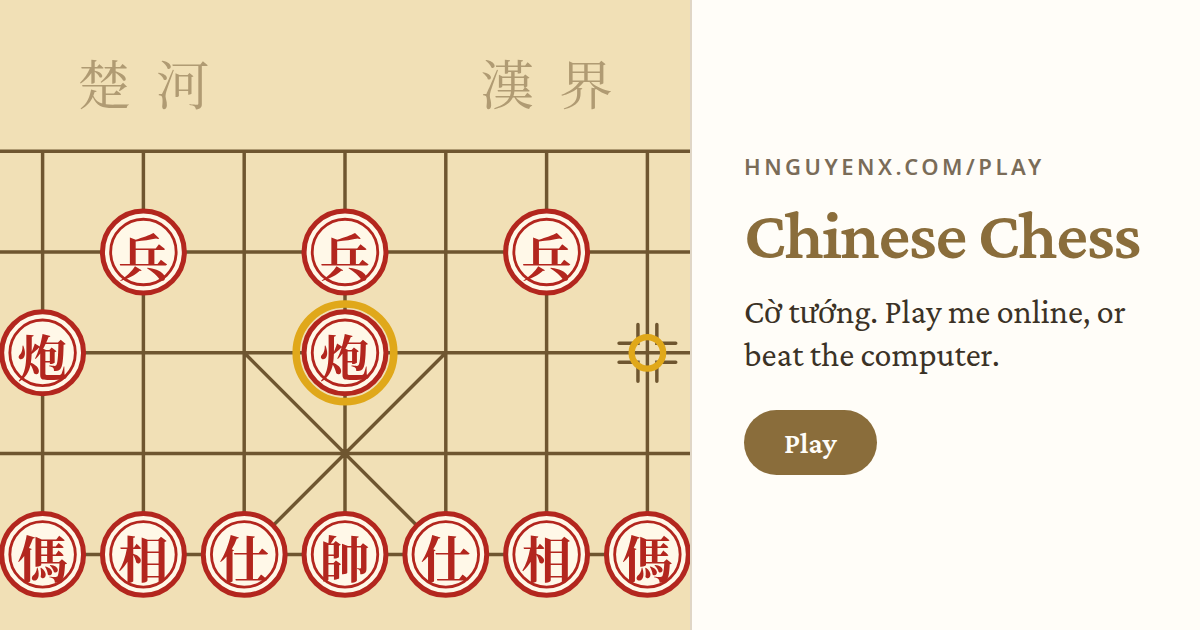
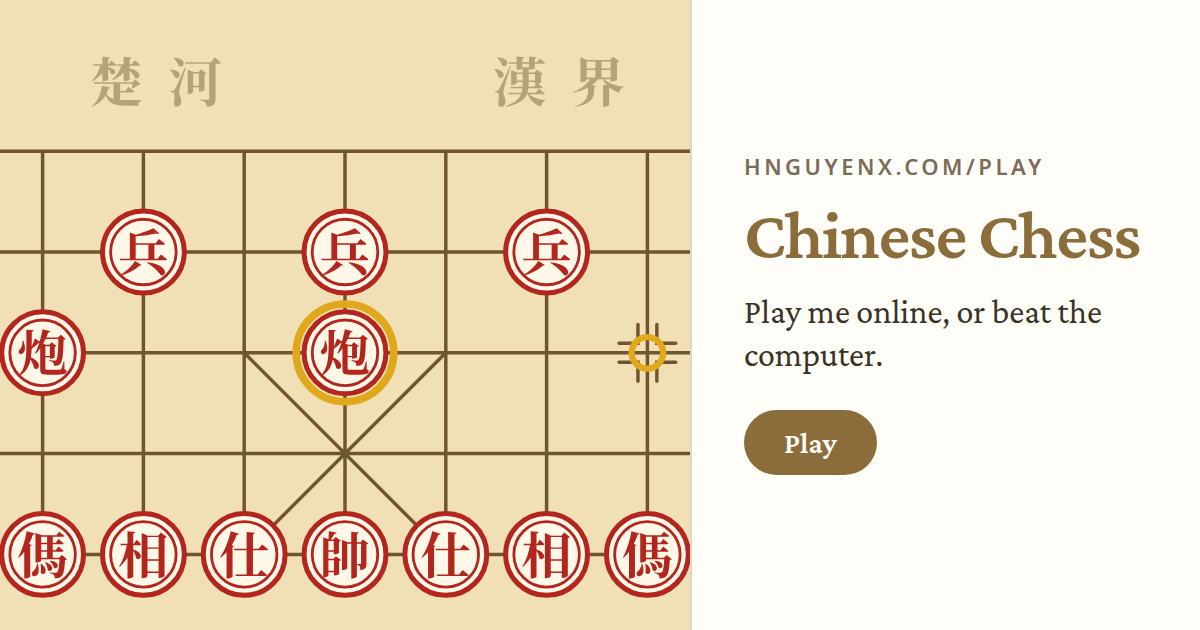
Chinese Chess: piece characters centred in their discs; English text says Chinese Chess
The characters were centred by the font's line height, which sits lower
than the middle of a Chinese character. They are now SVG text with the
baseline placed from the centre of the disc, on the games page card, the
board, the captured pieces, the letters style and the preview picture.

A small font with only the 18 characters the board uses (cut from Noto
Serif CJK SC Bold, SIL Open Font License) makes the pieces look the same
on every device.

English text no longer carries the Vietnamese name: the card, the link
preview title and picture, and the page description.

Claude-Session: https://claude.ai/code/session_01QVQ6hYPhpjejb6X99Nmzb8

diff --git a/play/index.html b/play/index.html
@@ -23,8 +23,9 @@
   <link rel="preconnect" href="https://fonts.googleapis.com">
   <link rel="preconnect" href="https://fonts.gstatic.com" crossorigin>
   <link rel="stylesheet" href="https://fonts.googleapis.com/css2?family=IBM+Plex+Sans:wght@400;500;600&family=Space+Grotesk:wght@400;500;600;700&display=swap">
+  <link rel="preload" href="../assets/fonts/xiangqi-pieces.woff2" as="font" type="font/woff2" crossorigin>
   <link rel="stylesheet" href="topnav.css?v=2">
-  <link rel="stylesheet" href="hub.css?v=11">
+  <link rel="stylesheet" href="hub.css?v=12">
 </head>
 <body>
   <!-- The same bar as Pro Mode (copied from pro/index.html); only the first link differs -->
@@ -120,19 +121,20 @@
         <svg class="card__art" viewBox="0 0 320 200" aria-hidden="true" preserveAspectRatio="xMidYMid slice">
           <rect width="320" height="200" fill="#f1e0b6"/>
           <path d="M32 176H288M32 144H288M32 112H288M32 80H288M32 48H288M32 48V176M64 48V176M96 48V176M128 48V176M160 48V176M192 48V176M224 48V176M256 48V176M288 48V176M128 176L192 112M192 176L128 112M61 103V109H55M61 121V115H55M67 103V109H73M67 121V115H73M253 103V109H247M253 121V115H247M259 103V109H265M259 121V115H265M35 71V77H41M35 89V83H41M93 71V77H87M93 89V83H87M99 71V77H105M99 89V83H105M157 71V77H151M157 89V83H151M163 71V77H169M163 89V83H169M221 71V77H215M221 89V83H215M227 71V77H233M227 89V83H233M285 71V77H279M285 89V83H279" fill="none" stroke="#6f5630" stroke-width="1.1" stroke-linecap="round"/>
-          <g font-family="'Noto Serif CJK SC', 'Songti SC', 'STKaiti', 'KaiTi', 'PingFang SC', 'Microsoft YaHei', serif" text-anchor="middle" dominant-baseline="central">
-            <g fill="#6f5630" fill-opacity="0.5" font-size="17" letter-spacing="8"><text x="100" y="26">楚河</text><text x="228" y="26">漢界</text></g>
+          <!-- text baselines are 0.38 of the font size below the centre of each disc: the middle of a Chinese character in any font -->
+          <g font-family="'Xiangqi Pieces', 'Noto Serif CJK SC', 'Songti SC', 'STKaiti', 'KaiTi', 'PingFang SC', 'Microsoft YaHei', serif" font-weight="700" text-anchor="middle">
+            <g fill="#6f5630" fill-opacity="0.45" font-size="17"><text x="87.5" y="32.46">楚</text><text x="112.5" y="32.46">河</text><text x="215.5" y="32.46">漢</text><text x="240.5" y="32.46">界</text></g>
             <!-- the cannon has just come to the middle file -->
             <circle cx="256" cy="112" r="5" fill="none" stroke="#e0a81a" stroke-width="2"/>
             <circle cx="160" cy="112" r="15.5" fill="none" stroke="#e0a81a" stroke-width="2.4"/>
             <g fill="#fff8e8" stroke="#b3261e" stroke-width="1.6"><circle cx="32" cy="176" r="13"/><circle cx="64" cy="176" r="13"/><circle cx="96" cy="176" r="13"/><circle cx="128" cy="176" r="13"/><circle cx="160" cy="176" r="13"/><circle cx="192" cy="176" r="13"/><circle cx="224" cy="176" r="13"/><circle cx="256" cy="176" r="13"/><circle cx="288" cy="176" r="13"/><circle cx="64" cy="112" r="13"/><circle cx="160" cy="112" r="13"/><circle cx="32" cy="80" r="13"/><circle cx="96" cy="80" r="13"/><circle cx="160" cy="80" r="13"/><circle cx="224" cy="80" r="13"/><circle cx="288" cy="80" r="13"/></g>
             <g fill="none" stroke="#b3261e" stroke-width="0.9"><circle cx="32" cy="176" r="10.4"/><circle cx="64" cy="176" r="10.4"/><circle cx="96" cy="176" r="10.4"/><circle cx="128" cy="176" r="10.4"/><circle cx="160" cy="176" r="10.4"/><circle cx="192" cy="176" r="10.4"/><circle cx="224" cy="176" r="10.4"/><circle cx="256" cy="176" r="10.4"/><circle cx="288" cy="176" r="10.4"/><circle cx="64" cy="112" r="10.4"/><circle cx="160" cy="112" r="10.4"/><circle cx="32" cy="80" r="10.4"/><circle cx="96" cy="80" r="10.4"/><circle cx="160" cy="80" r="10.4"/><circle cx="224" cy="80" r="10.4"/><circle cx="288" cy="80" r="10.4"/></g>
-            <g fill="#b3261e" font-size="16" font-weight="700"><text x="32" y="176.6">俥</text><text x="64" y="176.6">傌</text><text x="96" y="176.6">相</text><text x="128" y="176.6">仕</text><text x="160" y="176.6">帥</text><text x="192" y="176.6">仕</text><text x="224" y="176.6">相</text><text x="256" y="176.6">傌</text><text x="288" y="176.6">俥</text><text x="64" y="112.6">炮</text><text x="160" y="112.6">炮</text><text x="32" y="80.6">兵</text><text x="96" y="80.6">兵</text><text x="160" y="80.6">兵</text><text x="224" y="80.6">兵</text><text x="288" y="80.6">兵</text></g>
+            <g fill="#b3261e" font-size="16" font-weight="700"><text x="32" y="182.08">俥</text><text x="64" y="182.08">傌</text><text x="96" y="182.08">相</text><text x="128" y="182.08">仕</text><text x="160" y="182.08">帥</text><text x="192" y="182.08">仕</text><text x="224" y="182.08">相</text><text x="256" y="182.08">傌</text><text x="288" y="182.08">俥</text><text x="64" y="118.08">炮</text><text x="160" y="118.08">炮</text><text x="32" y="86.08">兵</text><text x="96" y="86.08">兵</text><text x="160" y="86.08">兵</text><text x="224" y="86.08">兵</text><text x="288" y="86.08">兵</text></g>
           </g>
         </svg>
         <div class="card__body">
           <h2><span lang="en">Chinese Chess</span><span lang="vi">Cờ tướng</span></h2>
-          <p><span lang="en">Cờ tướng on a wooden board. Play the computer, a friend on one screen, or a friend online.</span><span lang="vi">Cờ tướng trên bàn gỗ. Chơi với máy, với bạn trên cùng một màn hình, hoặc với bạn bè qua mạng.</span></p>
+          <p><span lang="en">Chinese chess on a wooden board. Play the computer, a friend on one screen, or a friend online.</span><span lang="vi">Cờ tướng trên bàn gỗ. Chơi với máy, với bạn trên cùng một màn hình, hoặc với bạn bè qua mạng.</span></p>
           <p class="card__best" id="best-cotuong"></p>
           <span class="card__go"><span lang="en">Play</span><span lang="vi">Chơi</span></span>
         </div>

diff --git a/play/chinesechess/cotuong.css b/play/chinesechess/cotuong.css
@@ -4,6 +4,13 @@
   src: url("../../assets/fonts/crimson-pro.woff2") format("woff2");
   font-weight: 200 900; font-style: normal; font-display: swap;
 }
+/* The characters on the pieces and the river: 18 glyphs cut from Noto Serif CJK SC Bold (SIL Open Font
+   License), so every phone and computer draws the same shapes. */
+@font-face {
+  font-family: "Xiangqi Pieces";
+  src: url("../../assets/fonts/xiangqi-pieces.woff2") format("woff2");
+  font-weight: 700; font-style: normal; font-display: swap;
+}
 :root {
   --paper: #fffdf8; --ink: #3b3226; --gold: #8a6d3b; --line: rgba(138, 109, 59, 0.3); --card: rgba(255, 253, 248, 0.97);
   --wood: #f1e0b6; --rule: #6f5630; --red: #b3261e; --black: #2a231a; --disc: #fff8e8;
@@ -62,10 +69,8 @@ body.in-menu .app { filter: blur(2px); opacity: 0.4; pointer-events: none; }
 .side__turn { font-weight: 400; color: var(--gold); white-space: nowrap; }
 .tray { display: flex; align-items: center; min-width: 0; margin-left: auto; padding-left: 4px; overflow: hidden; }
 .mini {
-  width: 21px; height: 21px; flex: 0 0 21px; margin-left: -5px; border-radius: 50%;
-  display: flex; align-items: center; justify-content: center;
+  position: relative; width: 21px; height: 21px; flex: 0 0 21px; margin-left: -5px; border-radius: 50%;
   background: var(--disc); border: 1.5px solid var(--pcol); color: var(--pcol);
-  font: 700 12px/1 "Noto Serif CJK SC", "Songti SC", "STSong", "PingFang SC", "Microsoft YaHei", "Noto Sans CJK SC", serif;
 }
 .mini--r { --pcol: var(--red); } .mini--b { --pcol: var(--black); }
 .tray__adv { margin-left: 8px; font-size: 0.98rem; opacity: 0.8; font-variant-numeric: tabular-nums; }
@@ -79,7 +84,7 @@ body.in-menu .app { filter: blur(2px); opacity: 0.4; pointer-events: none; }
 .grid { position: absolute; inset: 0; width: 100%; height: 100%; display: block; }
 .grid path, .grid rect { fill: none; stroke: var(--rule); stroke-width: 0.35; stroke-linecap: round; }
 .grid .frame { stroke-width: 0.7; }
-.grid text { fill: var(--rule); fill-opacity: 0.55; font: 500 5.4px "Noto Serif CJK SC", "Songti SC", "STKaiti", "KaiTi", "PingFang SC", "Microsoft YaHei", serif; text-anchor: middle; dominant-baseline: central; letter-spacing: 3px; }
+.grid text { fill: var(--rule); fill-opacity: 0.5; font: 700 5.4px "Xiangqi Pieces", "Noto Serif CJK SC", "Songti SC", "STKaiti", "KaiTi", "PingFang SC", "Microsoft YaHei", "Noto Sans CJK SC", serif; text-anchor: middle; }
 .pieces, .marks { position: absolute; inset: 0; }
 .marks { pointer-events: none; }
 .pc, .mark { position: absolute; left: 0; top: 0; width: calc(100% / 9); height: 10%; display: flex; align-items: center; justify-content: center; }
@@ -90,15 +95,21 @@ body.in-menu .app { filter: blur(2px); opacity: 0.4; pointer-events: none; }
 .pc.is-drag .pc__disc { box-shadow: 0 8px 10px rgba(0, 0, 0, 0.4); }
 .pc.is-out { opacity: 0; }
 .pc__disc {
-  width: 88%; aspect-ratio: 1; border-radius: 50%;
-  display: flex; align-items: center; justify-content: center;
+  position: relative; width: 88%; aspect-ratio: 1; border-radius: 50%;
   background: radial-gradient(circle at 35% 30%, #fffdf6, var(--disc) 60%, #f1e4c4);
   border: max(1.5px, calc(var(--cell) * 0.045)) solid var(--pcol); color: var(--pcol);
   box-shadow: inset 0 0 0 max(1.5px, calc(var(--cell) * 0.05)) var(--disc), inset 0 0 0 max(2.5px, calc(var(--cell) * 0.075)) var(--pcol), 0 2px 3px rgba(0, 0, 0, 0.3);
 }
 .pc--r { --pcol: var(--red); } .pc--b { --pcol: var(--black); }
-.pc__han { font: 700 calc(var(--cell) * 0.5)/1 "Noto Serif CJK SC", "Songti SC", "STKaiti", "KaiTi", "PingFang SC", "Microsoft YaHei", "Noto Sans CJK SC", serif; }
-.pc__abc { display: none; font: 700 calc(var(--cell) * 0.44)/1 "Crimson Pro", Georgia, serif; letter-spacing: -0.02em; }
+/* What is written on a piece. It is drawn as SVG text whose baseline is placed by hand (see face() in
+   cotuong.js), so the character sits in the middle of its disc whatever font a device ends up using.
+   Centring the line with CSS does not do that: it centres the font's line height, and for Chinese
+   characters that leaves the character about a twentieth of its size too low. */
+.face { position: absolute; left: 0; top: 0; width: 100%; height: 100%; display: block; overflow: visible; }
+.face text { fill: currentColor; text-anchor: middle; font-weight: 700; }
+.pc__han { font-family: "Xiangqi Pieces", "Noto Serif CJK SC", "Songti SC", "STKaiti", "KaiTi", "PingFang SC", "Microsoft YaHei", "Noto Sans CJK SC", serif; font-size: calc(var(--cell) * 0.5); }
+.pc__abc { display: none; font-family: "Crimson Pro", Georgia, serif; font-size: calc(var(--cell) * 0.44); }
+.mini .pc__han { font-size: 12px; } .mini .pc__abc { font-size: 11.5px; }
 body.style-abc .pc__han { display: none; }
 body.style-abc .pc__abc { display: block; }
 

diff --git a/play/chinesechess/index.html b/play/chinesechess/index.html
@@ -4,26 +4,27 @@
   <meta charset="utf-8">
   <meta name="viewport" content="width=device-width, initial-scale=1, maximum-scale=1, user-scalable=no, viewport-fit=cover">
   <title>Chinese Chess</title>
-  <meta name="description" content="Chinese Chess (Cờ tướng): play the computer at three levels, a friend on one screen, or a friend online.">
+  <meta name="description" content="Chinese Chess: play the computer at three levels, a friend on one screen, or a friend online.">
   <meta property="og:type" content="website">
   <meta property="og:site_name" content="Hoang Anh (Ben) Nguyen">
-  <meta property="og:title" content="Chinese Chess (Cờ tướng): play with me">
+  <meta property="og:title" content="Chinese Chess: play with me">
   <meta property="og:description" content="Play a friend online, or the computer at three levels. Right in the browser, nothing to install.">
   <meta property="og:url" content="https://hnguyenx.com/play/chinesechess/">
-  <meta property="og:image" content="https://hnguyenx.com/play/og/cotuong.png">
+  <meta property="og:image" content="https://hnguyenx.com/play/og/cotuong.png?v=2">
   <meta property="og:image:width" content="1200">
   <meta property="og:image:height" content="630">
-  <meta property="og:image:alt" content="Chinese Chess (Cờ tướng): play a friend online, or the computer.">
+  <meta property="og:image:alt" content="Chinese Chess: play a friend online, or the computer.">
   <meta name="twitter:card" content="summary_large_image">
-  <meta name="twitter:title" content="Chinese Chess (Cờ tướng): play with me">
+  <meta name="twitter:title" content="Chinese Chess: play with me">
   <meta name="twitter:description" content="Play a friend online, or the computer at three levels. Right in the browser, nothing to install.">
-  <meta name="twitter:image" content="https://hnguyenx.com/play/og/cotuong.png">
+  <meta name="twitter:image" content="https://hnguyenx.com/play/og/cotuong.png?v=2">
   <meta name="theme-color" content="#fffdf8" media="(prefers-color-scheme: light)">
   <meta name="theme-color" content="#14110c" media="(prefers-color-scheme: dark)">
   <link rel="icon" type="image/svg+xml" href="../../assets/favicon.svg?v=3">
   <link rel="icon" type="image/png" sizes="32x32" href="../../assets/favicon-32.png?v=3">
   <link rel="apple-touch-icon" sizes="180x180" href="../../assets/apple-touch-icon.png?v=3">
-  <link rel="stylesheet" href="cotuong.css?v=1">
+  <link rel="preload" href="../../assets/fonts/xiangqi-pieces.woff2" as="font" type="font/woff2" crossorigin>
+  <link rel="stylesheet" href="cotuong.css?v=2">
   <script src="../lang.js?v=1"></script>
 </head>
 <body class="in-menu">
@@ -126,6 +127,6 @@
   </div>
 
   <script src="engine.js?v=1"></script>
-  <script src="cotuong.js?v=1"></script>
+  <script src="cotuong.js?v=2"></script>
 </body>
 </html>

diff --git a/play/chinesechess/cotuong.js b/play/chinesechess/cotuong.js
@@ -158,14 +158,20 @@
         for (const dy of [-1, 1]) d += "M" + (x + dx * 1.1) + " " + (y + dy * 3) + "V" + (y + dy * 1.1) + "H" + (x + dx * 3);
       }
     }
-    $("grid").innerHTML = '<rect class="frame" x="3.4" y="3.4" width="83.2" height="93.2" rx="0.5"/><path d="' + d + '"/><text x="26" y="50.2">楚河</text><text x="64" y="50.2">漢界</text>';
+    $("grid").innerHTML = '<rect class="frame" x="3.4" y="3.4" width="83.2" height="93.2" rx="0.5"/><path d="' + d + '"/><text x="21.8" y="52.05">楚</text><text x="30.2" y="52.05">河</text><text x="59.8" y="52.05">漢</text><text x="68.2" y="52.05">界</text>';   // baseline 0.38 of the size below the middle of the river
   })();
 
   const letter = (pc) => ABC[PlayLang.get() === "vi" ? "vi" : "en"][pc & 7];
+  // What is written on a piece, in both styles; the stylesheet shows one. The text is SVG so its baseline can
+  // be set exactly: a Chinese character fills a square that reaches 0.88 of its size above the baseline and
+  // 0.12 below, so the middle of the character is 0.38 above the baseline. A capital letter in Crimson Pro is
+  // 0.587 tall, so its middle is 0.29 above.
+  const face = (pc) => '<svg class="face"><text class="pc__han" x="50%" y="50%" dy="0.38em">' + HAN[colorOf(pc)][pc & 7] +
+    '</text><text class="pc__abc" x="50%" y="50%" dy="0.29em">' + letter(pc) + "</text></svg>";
   function pieceEl(pc) {
     const el = document.createElement("div");
     el.className = "pc pc--" + colorOf(pc);
-    el.innerHTML = '<span class="pc__disc"><span class="pc__han">' + HAN[colorOf(pc)][pc & 7] + '</span><span class="pc__abc">' + letter(pc) + "</span></span>";
+    el.innerHTML = '<span class="pc__disc">' + face(pc) + "</span>";
     el._pc = pc;
     return el;
   }
@@ -226,7 +232,7 @@
     if (game.mode === "two") return c === "r" ? tr("Red", "Đỏ") : tr("Black", "Đen");
     return c === game.human ? tr("You", "Bạn") : game.mode === "online" ? tr("Friend", "Đối thủ") : tr("Computer", "Máy");
   }
-  const mini = (pc) => '<span class="mini mini--' + colorOf(pc) + '">' + (save.style === "abc" ? letter(pc) : HAN[colorOf(pc)][pc & 7]) + "</span>";
+  const mini = (pc) => '<span class="mini mini--' + colorOf(pc) + '">' + face(pc) + "</span>";
   function paintSides() {
     const bottom = flipped() ? "b" : "r", top = other(bottom);
     const taken = { r: [], b: [] };                  // pieces each colour has lost

diff --git a/play/hub.css b/play/hub.css
@@ -4,6 +4,12 @@
   src: url("../assets/fonts/crimson-pro.woff2") format("woff2");
   font-weight: 200 900; font-style: normal; font-display: swap;
 }
+/* the characters on the Chinese Chess card: the same 18 glyphs the game uses (from Noto Serif CJK SC Bold) */
+@font-face {
+  font-family: "Xiangqi Pieces";
+  src: url("../assets/fonts/xiangqi-pieces.woff2") format("woff2");
+  font-weight: 700; font-style: normal; font-display: swap;
+}
 * { box-sizing: border-box; }
 html { background: #05060b; }
 body {
